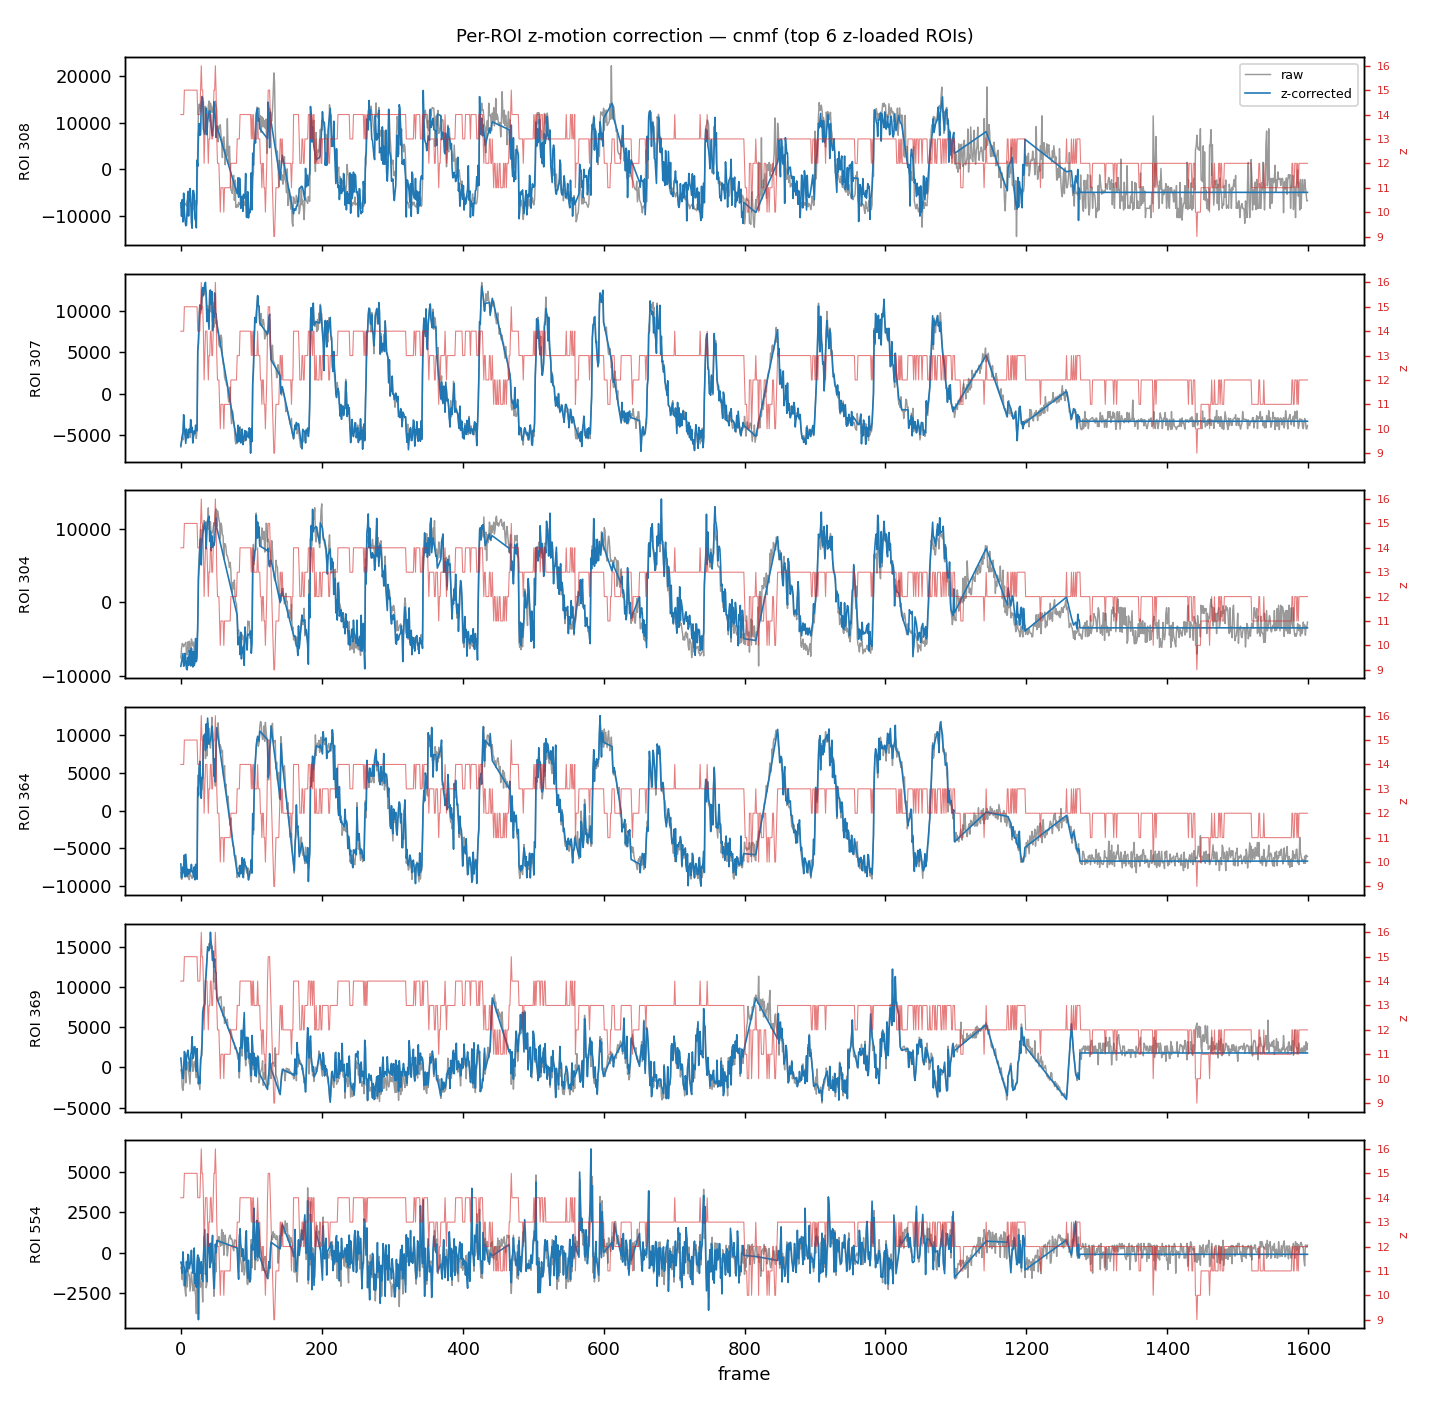
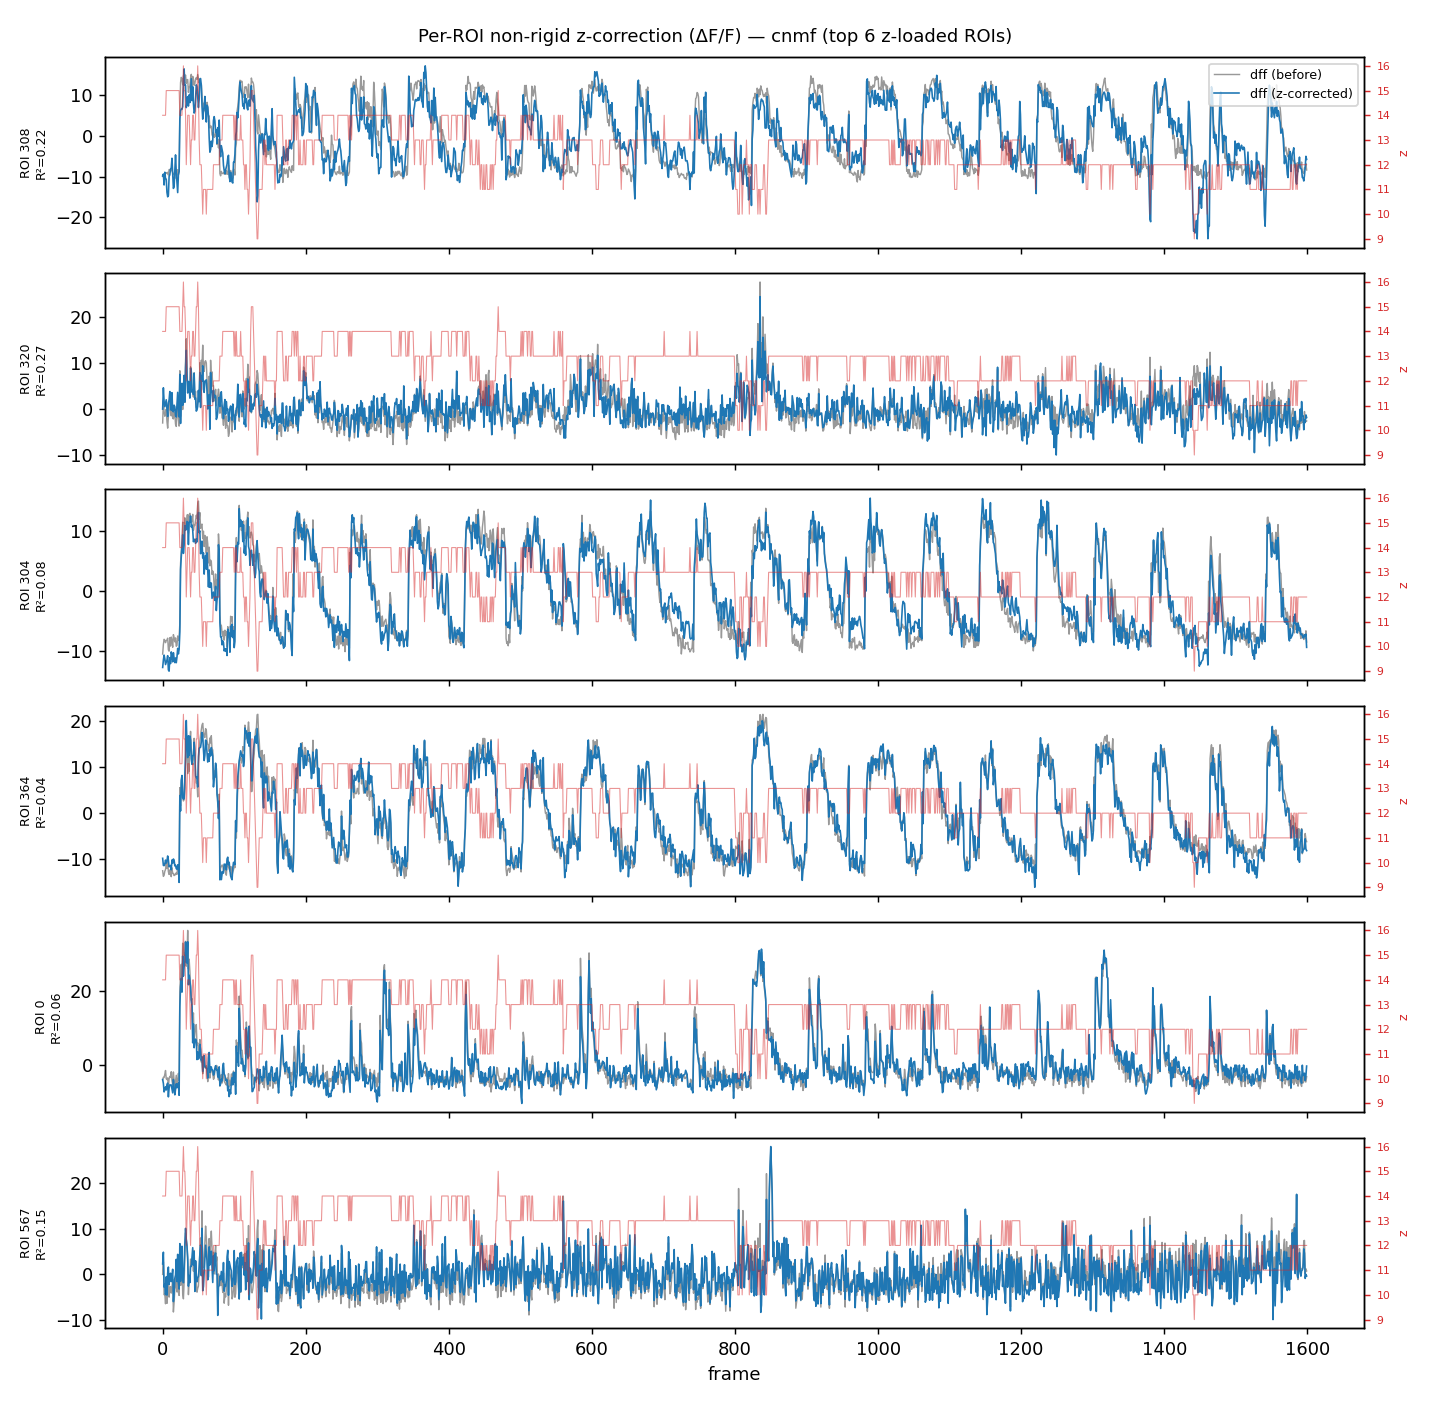
Fix per-ROI z-correction to match MATLAB: dff-space OLS on F_anat, no NaN-interp

diff --git a/modules/motion_correction.py b/modules/motion_correction.py
@@ -266,86 +266,80 @@ def run_roi_zcorr(export_path, parameters):
         return None
 
     with memory_manager("roi z-motion correction"):
-        zpos = np.load(zcorr_file)["zpos"]
-        f_anat_movie = imread(str(f_anat_files[0]))
-        # tifffile returns (T, Y, X); transpose to (Y, X, T)
-        if f_anat_movie.shape[0] == zpos.shape[0]:
-            f_anat_movie = np.transpose(f_anat_movie, (1, 2, 0))
+        from scipy.ndimage import uniform_filter1d
 
+        zpos = np.load(zcorr_file)["zpos"]
+        f_anat_movie = imread(str(f_anat_files[0])).astype(np.float32)  # (T, Y, X)
+        # 3-point moving average along time/z (MATLAB movmean(F_anat,3,3)): the
+        # anatomical fluctuation is smoothed before projecting onto ROIs.
+        f_anat_movie = uniform_filter1d(f_anat_movie, size=3, axis=0, mode="nearest")
+
+        # Per-ROI raw fluorescence F and the ROI pixel lists (uniform-weighted,
+        # matching the MATLAB reference — mean over ROI pixels, not CNMF/suite2p
+        # spatial weights).
         if extractor == "cnmf":
             from caiman.source_extraction.cnmf.cnmf import load_CNMF
 
-            # load_CNMF is the supported loader; CNMF() requires n_processes in
-            # caiman >= 1.12 and cannot be constructed empty.
             cnm = load_CNMF(str(cnmf_file), n_processes=1)
-            # caiman's Estimates has no raw `F`; reconstruct the raw per-ROI
-            # fluorescence (which carries the z-artifact) as denoised + residual.
-            F = cnm.estimates.C + cnm.estimates.YrA
+            F = cnm.estimates.C + cnm.estimates.YrA  # raw per-ROI fluorescence
             A = cnm.estimates.A.tocsc()
-            d1, d2 = cnm.dims  # frame dims live on the CNMF object, not estimates
-            n_neuron, n_frame = F.shape
-
-            Fz = np.zeros((n_neuron, n_frame))
-            Fz_rescaled = np.zeros_like(F)
-            Fcorrected = np.zeros_like(F)
-            b = np.zeros(n_neuron)
-
-            for i in range(n_neuron):
-                ind = A[:, i].nonzero()[0]
-                y, x = np.unravel_index(ind, (d1, d2))
-                weights = np.full(len(x), 1 / len(x))
-                for w, yy, xx in zip(weights, y, x):
-                    Fz[i] += w * f_anat_movie[yy, xx, :]
-                F0 = F[i].mean()
-                Fz0 = Fz[i].mean()
-                huber = HuberRegressor(fit_intercept=False)
-                huber.fit((Fz[i] - Fz0).reshape(-1, 1), F[i] - F0)
-                b[i] = huber.coef_[0]
-                Fz_rescaled[i] = b[i] * (Fz[i] - Fz0)
-                Fcorrected[i] = F[i] - Fz_rescaled[i]
-
+            d1, d2 = cnm.dims
+            roi_pixels = [
+                np.unravel_index(A[:, i].nonzero()[0], (d1, d2)) for i in range(A.shape[1])
+            ]
         else:  # Suite2p
             F = np.load(str(s2p_files[0]))
             stat = np.load(str(s2p_files[1]), allow_pickle=True)
-            n_neuron, n_frame = F.shape
-            Fz = np.zeros((n_neuron, n_frame))
-            Fz_rescaled = np.zeros_like(F)
-            Fcorrected = np.zeros_like(F)
-            b = np.zeros(n_neuron)
+            roi_pixels = [(c["ypix"].astype(int), c["xpix"].astype(int)) for c in stat]
 
-            for i, cell in enumerate(stat):
-                ypix = cell["ypix"].astype(int)
-                xpix = cell["xpix"].astype(int)
-                lam = cell["lam"].astype(float)
-                weights = lam / lam.sum() if lam.sum() != 0 else np.full(len(lam), 1 / len(lam))
-                for w, yy, xx in zip(weights, ypix, xpix):
-                    Fz[i] += w * f_anat_movie[yy, xx, :]
-                F0 = F[i].mean()
-                Fz0 = Fz[i].mean()
-                huber = HuberRegressor(fit_intercept=False)
-                huber.fit((Fz[i] - Fz0).reshape(-1, 1), F[i] - F0)
-                b[i] = huber.coef_[0]
-                Fz_rescaled[i] = b[i] * (Fz[i] - Fz0)
-                Fcorrected[i] = F[i] - Fz_rescaled[i]
+        F = np.asarray(F, dtype=np.float32)
+        n_neuron, n_frame = F.shape
 
-        z_mode = mode(zpos, keepdims=False).mode
-        if np.ndim(z_mode) > 0:
-            z_mode = z_mode[0]
-        missing = np.abs(zpos - z_mode) > 5
-        if np.any(missing):
-            Fcorrected[:, missing] = np.nan
-            Fcorrected = (
-                pd.DataFrame(Fcorrected)
-                .interpolate(method="linear", axis=1, limit_direction="both")
-                .to_numpy()
-            )
+        # F_cell_anat: mean of the (smoothed) F_anat movie over each ROI's pixels.
+        F_cell_anat = np.zeros((n_neuron, n_frame), np.float32)
+        for i, (yy, xx) in enumerate(roi_pixels):
+            if len(yy):
+                F_cell_anat[i] = f_anat_movie[:, yy, xx].mean(axis=1)
 
-        # Save results
+        # Work in ΔF/F (dff = F/F0 - 1). No trial baseline here, so F0 is the
+        # per-ROI mean (for trial-structured data, use the trial baseline).
+        def _dff(x):
+            x0 = x.mean(axis=1, keepdims=True)
+            x0[x0 == 0] = 1.0
+            return x / x0 - 1.0
+
+        dff = _dff(F)
+        dffz = _dff(F_cell_anat)
+
+        # Regress dff on dffz (per-ROI OLS slope) and rescale (MATLAB lines 362-366).
+        mean_dff = dff.mean(axis=1, keepdims=True)
+        mean_dffz = dffz.mean(axis=1, keepdims=True)
+        num = np.sum((dff - mean_dff) * (dffz - mean_dffz), axis=1)
+        den = np.sum((dffz - mean_dffz) ** 2, axis=1)
+        slope = np.divide(num, den, out=np.zeros_like(num), where=den != 0)
+        dffz_scaled = dffz * slope[:, None]
+
+        # R^2 of the z-model and the corrected trace (no NaN interpolation).
+        ss_tot = np.sum(dff**2, axis=1)
+        R2 = 1.0 - np.divide(
+            np.sum((dff - dffz_scaled) ** 2, axis=1),
+            ss_tot,
+            out=np.full(n_neuron, np.nan),
+            where=ss_tot != 0,
+        )
+        dff_corrected = dff - dffz_scaled
+        b = slope  # for the scaling histogram below
+
+        # Save results (ΔF/F space, matching the MATLAB non-rigid z-correction).
         np.savez_compressed(
             export_path / "F_roi_zcorrected.npz",
-            F_roi_zcorrected=Fcorrected,
-            F_roi_zbaseline=Fz_rescaled,
-            roi_z_scaling=b,
+            dff=dff.astype(np.float32),
+            dff_corrected=dff_corrected.astype(np.float32),
+            dffz=dffz_scaled.astype(np.float32),
+            roi_z_scaling=slope.astype(np.float32),
+            roi_z_R2=R2.astype(np.float32),
+            # legacy key kept for compatibility (the corrected trace)
+            F_roi_zcorrected=dff_corrected.astype(np.float32),
         )
 
         try:

diff --git a/validation/plot_roi_zcorr.py b/validation/plot_roi_zcorr.py
@@ -33,13 +33,14 @@ def main():
 
     zpos = np.load(export / "z_correlation.npz")["zpos"].astype(float)
     d = np.load(export / "F_roi_zcorrected.npz")
-    corrected = d["F_roi_zcorrected"]
-    baseline = d["F_roi_zbaseline"]  # the subtracted z-motion component (b*(Fz-Fz0))
+    dff = d["dff"]  # ΔF/F before correction
+    dff_corrected = d["dff_corrected"]  # after subtracting the z-model
+    dffz = d["dffz"]  # the scaled z-component that was subtracted
     scaling = d["roi_z_scaling"]
-    raw = corrected + baseline  # run_roi_zcorr computed corrected = raw - baseline
+    R2 = d["roi_z_R2"] if "roi_z_R2" in d.files else np.full(dff.shape[0], np.nan)
 
-    # Rank ROIs by how strongly z-motion loaded onto them (|scaling| * baseline swing).
-    z_load = np.abs(scaling) * baseline.std(axis=1)
+    # Rank ROIs by how strongly z-motion loaded onto them (the z-component swing).
+    z_load = dffz.std(axis=1)
     order = np.argsort(z_load)[::-1]
     sel = order[: args.n_rois]
 
@@ -47,17 +48,17 @@ def main():
     if len(sel) == 1:
         axes = [axes]
     for ax, i in zip(axes, sel):
-        ax.plot(raw[i], color="0.6", lw=0.8, label="raw")
-        ax.plot(corrected[i], color="C0", lw=0.9, label="z-corrected")
-        ax.set_ylabel(f"ROI {i}", fontsize=8)
+        ax.plot(dff[i], color="0.6", lw=0.8, label="dff (before)")
+        ax.plot(dff_corrected[i], color="C0", lw=0.9, label="dff (z-corrected)")
+        ax.set_ylabel(f"ROI {i}\nR²={R2[i]:.2f}", fontsize=7)
         axz = ax.twinx()
-        axz.plot(zpos, color="C3", lw=0.6, alpha=0.6)
+        axz.plot(zpos, color="C3", lw=0.6, alpha=0.5)
         axz.set_ylabel("z", color="C3", fontsize=7)
         axz.tick_params(axis="y", labelsize=6, colors="C3")
     axes[0].legend(loc="upper right", fontsize=7)
     axes[-1].set_xlabel("frame")
     fig.suptitle(
-        f"Per-ROI z-motion correction — {export.name} " f"(top {len(sel)} z-loaded ROIs)",
+        f"Per-ROI non-rigid z-correction (ΔF/F) — {export.name} " f"(top {len(sel)} z-loaded ROIs)",
         fontsize=10,
     )
     fig.tight_layout()
@@ -67,17 +68,18 @@ def main():
 
     np.savez(
         out / "roi_zcorr_viz.npz",
-        raw=raw,
-        corrected=corrected,
-        baseline=baseline,
+        dff=dff,
+        dff_corrected=dff_corrected,
+        dffz=dffz,
         roi_z_scaling=scaling,
+        roi_z_R2=R2,
         zpos=zpos,
     )
     print(f"Wrote {fig_path}")
-    print(f"Wrote {out / 'roi_zcorr_viz.npz'}  (raw/corrected/baseline/scaling/zpos)")
+    print(f"Wrote {out / 'roi_zcorr_viz.npz'}  (dff/dff_corrected/dffz/scaling/R2/zpos)")
     print(
-        f"ROIs: {corrected.shape[0]}, frames: {corrected.shape[1]}, "
-        f"median |z-scaling|: {np.median(np.abs(scaling)):.3f}"
+        f"ROIs: {dff.shape[0]}, frames: {dff.shape[1]}, "
+        f"median |slope|: {np.median(np.abs(scaling)):.3f}, median R²: {np.nanmedian(R2):.3f}"
     )
 
 
